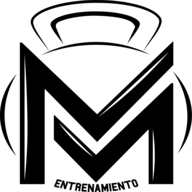
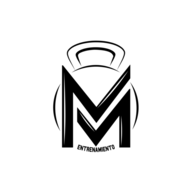
chore(pwa): actualiza iconos del manifest para usar fondo blanco en android

diff --git a/frontend/mmentrenamiento-app/vite.config.js b/frontend/mmentrenamiento-app/vite.config.js
@@ -44,8 +44,6 @@ export default defineConfig({
     })
   ],
   server: {
-    // Mismo origen que en producción (Vercel proxea /api a Railway): la cookie del refresh token
-    // funciona igual en desarrollo. Ajustá el target si tu API local corre en otro puerto.
     proxy: {
       '/api': {
         target: 'https://localhost:7198',

diff --git a/backend/MMEntrenamiento/MMEntrenamiento.Application/Services/AdministracionService.cs b/backend/MMEntrenamiento/MMEntrenamiento.Application/Services/AdministracionService.cs
@@ -117,6 +117,7 @@ namespace MMEntrenamiento.Application.Services
                     NombreCompleto = u.NombreCompleto ?? "Sin Nombre",
                     Email = u.Email ?? "",
                     Telefono = u.PhoneNumber,
+                    FotoPerfilUrl = u.FotoPerfilUrl,
                     Activo = u.EstadoCuenta == EstadoCuenta.Activo,
                     CreditosDisponibles = creditosDisponibles,
                     DriveItemId = u.OneDrivePlan?.DriveItemId,

diff --git a/backend/MMEntrenamiento/MMEntrenamiento.Application/DTOs/Administracion/AdministracionDtos.cs b/backend/MMEntrenamiento/MMEntrenamiento.Application/DTOs/Administracion/AdministracionDtos.cs
@@ -6,6 +6,7 @@
         public string NombreCompleto { get; set; } = null!;
         public string Email { get; set; } = null!;
         public string? Telefono { get; set; }
+        public string? FotoPerfilUrl { get; set; }
         public bool Activo { get; set; }
         public int CreditosDisponibles { get; set; }
         public string? DriveItemId { get; set; }
